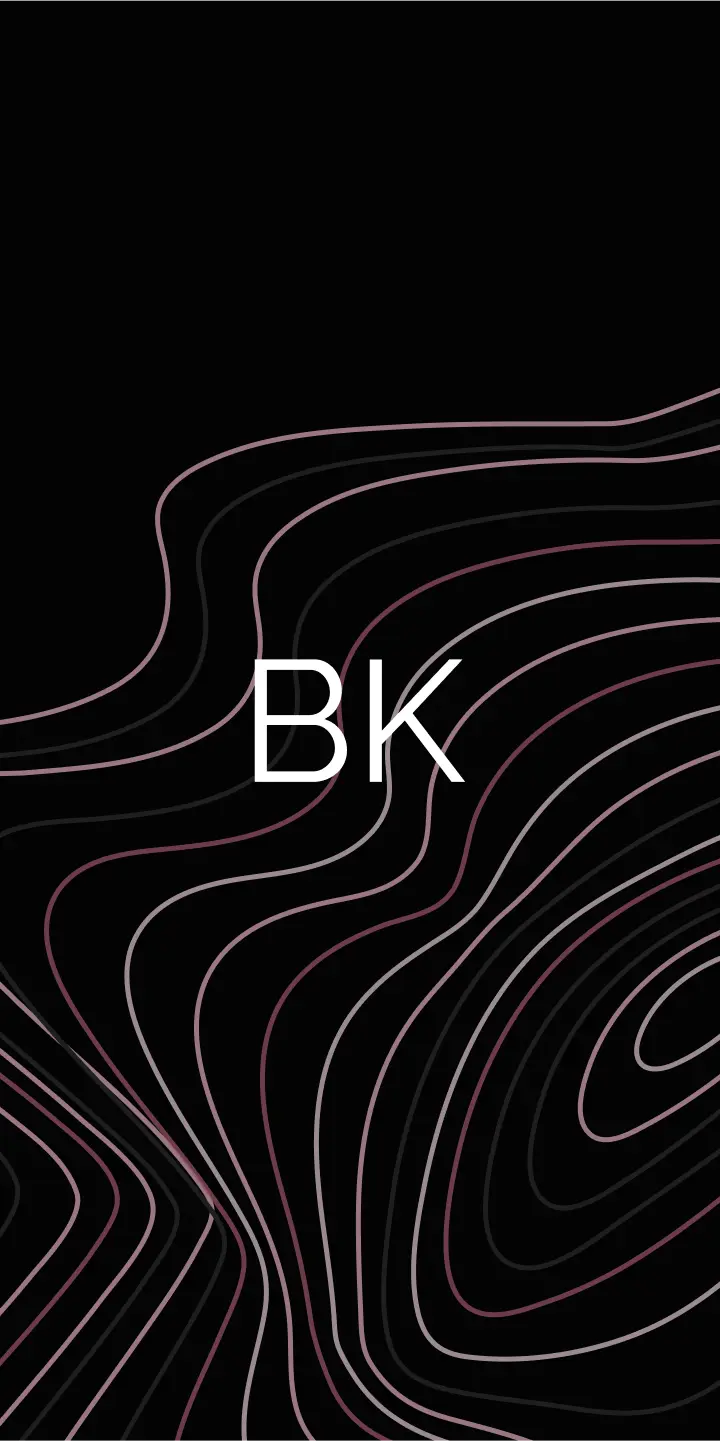
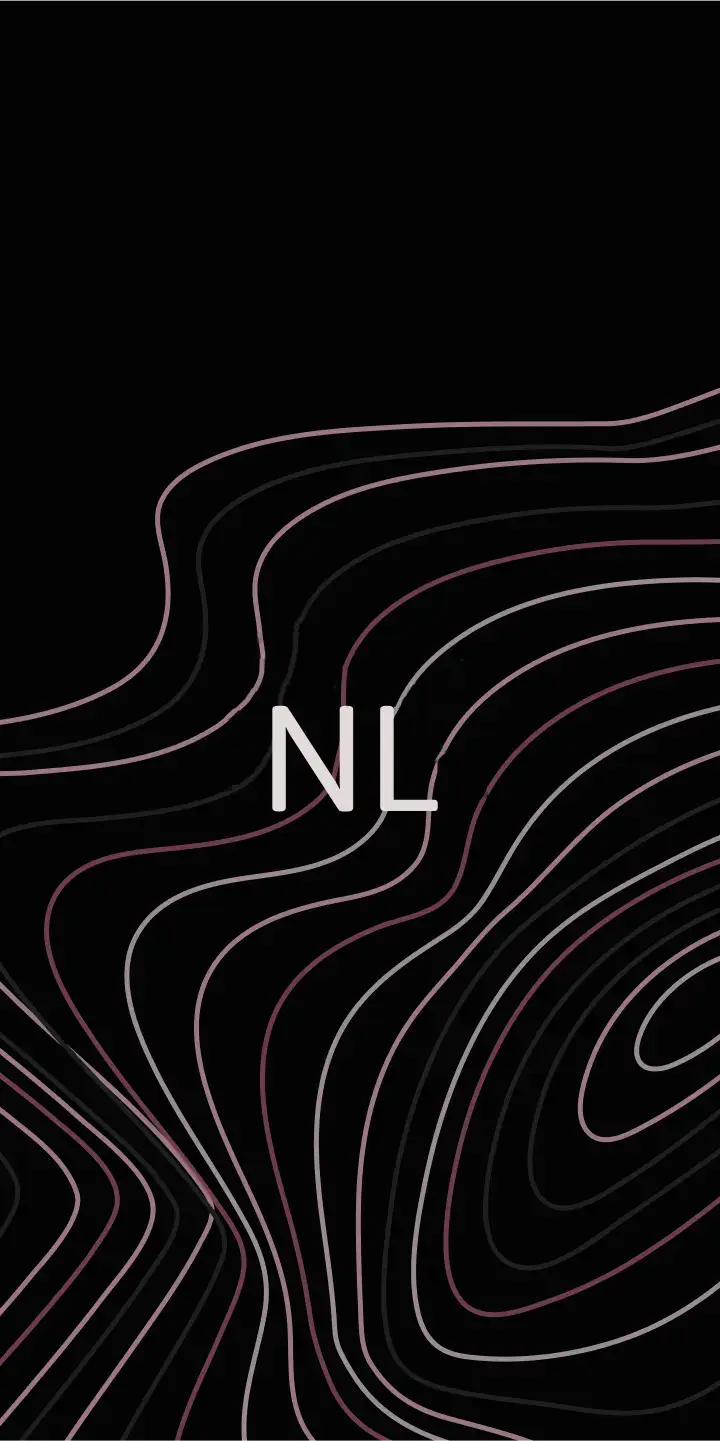
add hugo project

Changed region(s): [[0.3361, 0.4372, 0.6417, 0.5621], [0.6111, 0.4372, 0.6417, 0.4684]]

diff --git a/nuxt.config.js b/nuxt.config.js
@@ -7,14 +7,14 @@ export default defineNuxtConfig({
   app: {
     head: {
       htmlAttrs: { lang: 'en', dir: 'ltr' },
-      titleTemplate: '%s | Bogdan Kostyuk',
+      titleTemplate: '%s | Nikita Lisovsky',
       meta: [
         { lang: 'en' },
         { language: 'English' },
-        { property: 'name', name: 'name', content: 'Bogdan Kostyuk' },
+        { property: 'name', name: 'name', content: 'Nikita Lisovsky' },
         { charset: 'utf-8' },
         { 'http-equiv': 'X-UA-Compatible', content: 'IE=edge' },
-        { 'http-equiv': 'Reply-to', content: 'contact@bogdankostyuk.xyz' },
+        { 'http-equiv': 'Reply-to', content: 'lisovsky.auto@gmail.com' },
         { name: 'viewport', content: 'width=device-width, initial-scale=1' },
         { name: 'format-detection', content: 'telephone=no' },
         { name: 'robots', content: 'all' },
@@ -24,13 +24,13 @@ export default defineNuxtConfig({
         {
           property: 'og:site_name',
           name: 'og:site_name',
-          content: 'Bogdan Kostyuk',
+          content: 'Nikita Lisovsky',
         },
         { property: 'og:locale', name: 'og:locale', content: 'en' },
         { property: 'og:type', name: 'og:type', content: 'website' },
       ],
       link: [
-        { rel: 'icon', type: 'image/svg+xml', href: '/favicon.svg' },
+        { rel: 'icon', type: 'image/svg+xml', href: '/favicon.ico' },
         {
           rel: 'icon',
           type: 'image/x-icon',
@@ -63,7 +63,7 @@ export default defineNuxtConfig({
     public: {
       base: isDevelopment
         ? 'http://localhost:3000'
-        : 'https://bogdankostyuk.xyz',
+        : 'https://nikitabk.vercel.app',
     },
   },
 

diff --git a/lib/greeting.js b/lib/greeting.js
@@ -1,12 +1,12 @@
 export function logGreeting() {
   // eslint-disable-next-line
   console.log(
-    '%cBogdan Kostyuk',
+    '%Nikita Lisovsky',
     'background-color: #030303;border-radius: 0.125rem;padding: 5px 10px;font-family: "Arial", sans-serif;font-size: 2rem;color: white',
   );
   // eslint-disable-next-line
   console.log(
-    "%cHello😁 curios friend! If you have any questions, let's get in touch at contact@bogdankostyuk.xyz! Or if you are looking for a source📦 here you are: https://github.com/logotip4ik/portfolio",
+    "%cHello😁 curios friend! If you have any questions, let's get in touch at lisovsky.auto@gmail.com! Or if you are looking for a source📦 here you are: https://github.com/logotip4ik/portfolio",
     'background-color: #030303;border-radius: 0.125rem;padding: 5px 10px;font-size:1rem;color: white;line-height:1.75',
   );
 }

diff --git a/components/V-Footer.vue b/components/V-Footer.vue
@@ -43,11 +43,11 @@ onMounted(() => {
     >
       <div class="footer__content">
         <p class="footer__content__title">
-          <span class="footer__content__title__line">Bogdan</span>
+          <span class="footer__content__title__line">Nikita</span>
           <span
             class="footer__content__title__line footer__content__title__line--pl"
           >
-            Kostyuk
+            Lisovsky
           </span>
         </p>
         <ul class="footer__content__social-links">
@@ -63,7 +63,7 @@ onMounted(() => {
         </ul>
 
         <p class="footer__content__copyright">
-          Copyright ©{{ getCurrentYear() }} BK
+          Copyright ©{{ getCurrentYear() }} NL
         </p>
 
         <p class="footer__content__note">

diff --git a/lib/constants.js b/lib/constants.js
@@ -8,9 +8,8 @@ export const pointerModifiersWhitelist = [
 export const MAX_DPR = 1.5;
 
 export const socialLinks = [
-  { label: 'linkedin', href: 'https://www.linkedin.com/in/bogdankostyuk' },
-  { label: 'telegram', href: 'https://t.me/bogdankostyuk' },
-  { label: 'github', href: 'https://github.com/logotip4ik' },
-  { label: 'email', href: 'mailto:contact@bogdankostyuk.xyz' },
-  { label: 'blog', href: 'https://blog.bogdankostyuk.xyz' },
+  { label: 'linkedin', href: 'https://www.linkedin.com/in/nikitalisovskii/' },
+  { label: 'telegram', href: 'https://t.me/tinkertalent' },
+  { label: 'github', href: 'https://github.com/lbohdan2024/' },
+  { label: 'email', href: 'mailto:lisovsky.auto@gmail.com' },
 ];

diff --git a/components/V-Header.vue b/components/V-Header.vue
@@ -65,12 +65,12 @@ onBeforeUnmount(() => {
     <div class="header__container">
       <h1 class="header__container__title">
         <span class="header__container__title__line">
-          <span class="header__container__title__line__content">Bogdan</span>
+          <span class="header__container__title__line__content">Nikita</span>
         </span>
         <span
           class="header__container__title__line header__container__title__line--pl"
         >
-          <span class="header__container__title__line__content">Kostyuk</span>
+          <span class="header__container__title__line__content">Lisovsky</span>
         </span>
       </h1>
 

diff --git a/components/content/Project-Section.vue b/components/content/Project-Section.vue
@@ -91,6 +91,20 @@ const typeClasses = computed(() => {
     }
   }
 
+  &--3-col {
+    --gap: 1rem;
+
+    display: grid;
+    grid-template-columns: 1fr 1fr 1fr;
+    gap: var(--gap);
+    align-items: center;
+
+    @media screen and (max-width: 800px) {
+      grid-template-columns: 1fr;
+      grid-template-rows: repeat(2, auto);
+    }
+  }
+
   &--project-next {
     height: auto;
 

diff --git a/server/routes/sitemap.xml.js b/server/routes/sitemap.xml.js
@@ -7,7 +7,9 @@ export default defineEventHandler(async (event) => {
   // Fetching all the documents
   const docs = await serverQueryContent(event).find();
 
-  const sitemap = new SitemapStream({ hostname: 'https://bogdankostyuk.xyz' });
+  const sitemap = new SitemapStream({
+    hostname: 'https://nikitabk.vercel.app',
+  });
 
   sitemap.write({ url: '/', ...defaults });
 

diff --git a/components/V-Navbar.vue b/components/V-Navbar.vue
@@ -192,7 +192,7 @@ onMounted(() => {
       @click="() => $smoothScroll.scrollTo(0)"
       @keypress.enter.space.prevent="() => $smoothScroll.scrollTo(0)"
     >
-      BK
+      NL
     </p>
 
     <ul v-show="route.name === 'index'" ref="navList" class="nav__list">

diff --git a/components/V-Contact.vue b/components/V-Contact.vue
@@ -42,7 +42,7 @@ onMounted(() => {
     <NuxtLink
       ref="contactEmail"
       v-hoverable.mail
-      href="mailto:contact@bogdankostyuk.xyz"
+      href="mailto:lisovsky.auto@gmail.com"
       class="contact__email"
     >
       <span

diff --git a/components/V-About-Me.vue b/components/V-About-Me.vue
@@ -18,7 +18,7 @@ onMounted(() => {
 
   const revealAnimation = gsap.fromTo(
     text.lines,
-    { '--overlay-offset': '0%' },
+    { '--overlay-offset': '10%' },
     {
       '--overlay-offset': '100%',
       stagger: 0.1,

diff --git a/content/project/gohugo.md b/content/project/gohugo.md
@@ -1,0 +1,53 @@
+---
+title: 'Adam Warski | Technology blog and portfolio'
+description: This project was build exclusively Adam's portfolio and blog site. It is a portolio site that include articles, videos, blogs, conferences, and projects.
+live: 'https://github.com/lbohdan2024/hugo-portfolio'
+source: 'https://github.com/lbohdan2024/animation-portfolio'
+tags:
+  - 'Hugo'
+  - 'CMS'
+  - 'TailwindCSS'
+  - 'SEO'
+  - 'SCSS'
+image: '/img/hugo-preview.jpg'
+previewImage: '/img/hugo-logo.png'
+createdAt: '2024-04-01T00:00:00+03:00'
+---
+
+::project-header
+:::project-title
+Portfolio and Blog based Hugo
+:::
+
+#live
+[see live](https://github.com/lbohdan2024/hugo-portfolio)
+::
+
+::project-main
+:::project-section{type="fwidth"}
+::::project-image{type="fwidth" :src="image" alt="Portfolio and Blog based Hugo" preload}
+:::
+
+:::project-section{type="text"}
+This project was build exclusively Adam's portfolio and blog site. It is a portolio site that include articles, videos, blogs, conferences, and projects. This work with GoHugo and TailwindCSS for mobile, tablet and desktop and is markdown CMS project.
+
+:::
+
+:::project-section
+::::project-image{src="/img/hugo-collage.webp" alt="portfolio"}
+:::
+
+:::project-section{type="3-col" style="--gap: 2rem;--col-1: 33.3%;--col-2: 33.3%;--col-3: 33.3%"}
+::::project-image{src="/img/hugo-mobile-1.png" alt="student recruit website typography"}
+::::
+
+::::project-image{src="/img/hugo-mobile-2.png" alt="student recruit website in phone frame"}
+::::
+
+::::project-image{src="/img/hugo-mobile-3.png" alt="student recruit website in phone frame"}
+::::
+:::
+
+:::project-section{type="project-next"}
+::::project-next
+::

diff --git a/content/project/portfolio.md b/content/project/portfolio.md
@@ -1,7 +1,7 @@
 ---
 description: 'This website, as you might already notice, is my portfolio. I am using it to showcase what I learn and what I can do. It was built with the cutting-edge framework Nuxt'
-source: 'https://github.com/logotip4ik/portfolio'
-live: 'https://bogdankostyuk.xyz'
+source: 'https://github.com/lbohdan2024/animation-portfolio'
+live: 'https://nikitabk.vercel.app'
 tags:
   - Website
   - SEO
@@ -33,12 +33,10 @@ This website, as you might already notice, is my portfolio. I am using it to sho
 
 While building this website, I faced a lot of different and exceptional issues. One was breaking everything after moving one line of code up or down :sweat_smile:. Another was, how to reconcile Nuxt3, GSAP, and Locomotive Scroll in one package, so the route transition looks soft and native. But after trials and errors, something proper was created. Feel free to break everything :joy:.
 
-- [github](https://github.com/logotip4ik)
-- [twitter](https://twitter.com/BogdanKostyuk_)
-- [telegram](https://t.me/bogdankostyuk)
-- [linkedin](https://www.linkedin.com/in/bogdankostyuk)
-- [blog](https://blog.bogdankostyuk.xyz)
-- [email](mailto:contact@bogdankostyuk.xyz)
+- [github](https://github.com/lbohdan2024)
+- [telegram](https://t.me/tinkertalent)
+- [linkedin](https://www.linkedin.com/in/nikitalisovskii)
+- [email](mailto:lisovsky.auto@gmail.com)
 
 <br />
 
